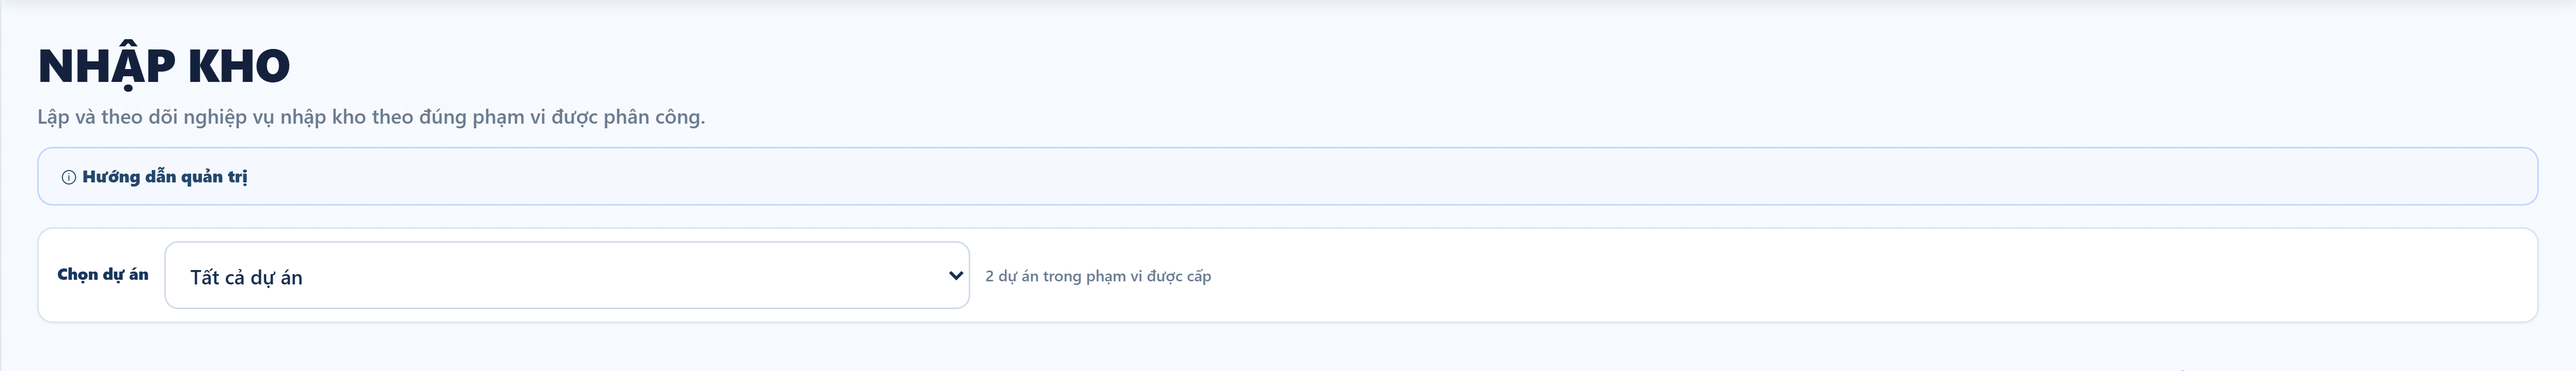
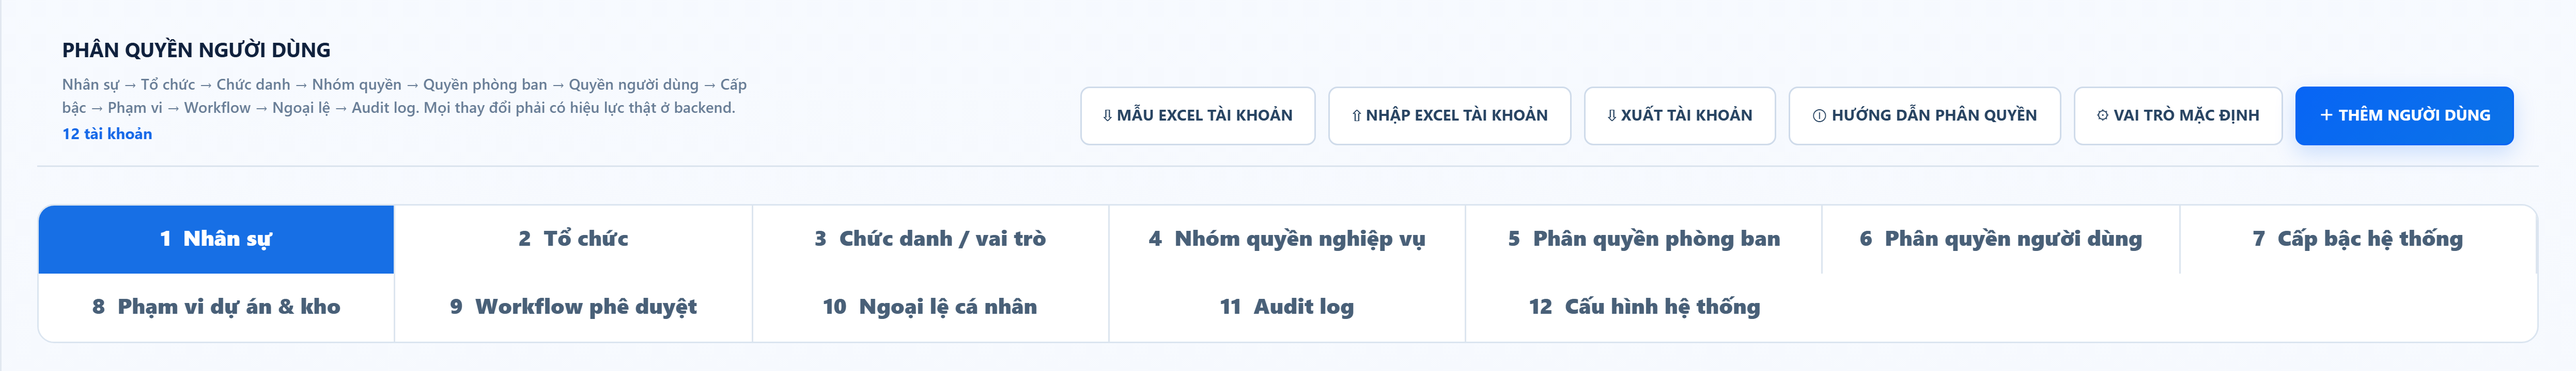
13 - U-09 dot 2: chuan hoa toolbar man PHAN QUYEN NGUOI DUNG + nang nguong cong anh len 8 px co bang chung
Man Admin: thay .approved-module-head + .screen-actions (6 nut don mot phia) bang MOT ListToolbar: tieu de + so luong (trai) || 6 nut (phai). Giu nguyen handler va thu tu nut; giu nguyen tieu de va chuoi 11 buoc nghiep vu.

Khong dua o tim kiem len toolbar cap man: adminQuery chi ap dung cho BUOC 1 (danh sach nhan su), dat o cap man se gay hieu sai rang no loc ca man; o tim kiem van nam trong AdminStaffList.

Kiem chung: tsc DAT; build DAT (dinh danh VNTECH-FP-6A346E9989229D07, head 0105, manifest 798); cong anh DAT 28/28; 13/13 probe DAT. Du doan neu TRUOC khi chay cong la chi 07-admin duoc phep lech -> dung (24/28 anh 0 px). OCR xac nhan toolbar dung khuon §5 (tieu de + 12 tai khoan ben trai, 6 nut ben phai) va 12 tab buoc nguyen ven. Chi cap nhat anh chuan 07-admin (4 anh).

Nang nguong cong anh tu 2 px len 8 px KEM BANG CHUNG: mot lan chay bao 2/28 anh vuot nguong roi lan ngay sau lai DAT => nguong 2 px qua sat, sinh loi GIA. Do lai: nhieu noi bo phien = 0 px (4 man x 4 kich thuoc); dao dong giua cac phien tren 07-admin = 0 / 2 / 0 px; vi tri la vien bo goc <BUTTON .sidebar-collapse-toggle> rect 22,798,203,34. Nguong 8 px van cach hoi quy THAT nho nhat tung gap (405 px) gan 50 lan. Van giu --max-diff-pixels=0 cho che do nghiem ngat tuyet doi.

Ho so: docs/27 them muc 7, 8, 9. Roadmap: U-09 -> DANG-LAM 4/32. Chua push theo yeu cau.

diff --git a/app/page.tsx b/app/page.tsx
@@ -3479,7 +3479,19 @@ function Admin({ data, open, action }: { data: AppData; open: (name: string, row
   // Nhân sự và Tổ chức là hai tab RIÊNG (trước đây gộp chung "Nhân sự & tổ chức").
   const steps=["Nhân sự","Tổ chức","Chức danh / vai trò","Nhóm quyền nghiệp vụ","Phân quyền phòng ban","Phân quyền người dùng","Cấp bậc hệ thống","Phạm vi dự án & kho","Workflow phê duyệt","Ngoại lệ cá nhân","Audit log","Cấu hình hệ thống"];
   return <div className="stack admin-approved-screen baseline-screen">
-    <div className="approved-module-head"><div><h2>PHÂN QUYỀN NGƯỜI DÙNG</h2><p>Nhân sự → Tổ chức → Chức danh → Nhóm quyền → Quyền phòng ban → Quyền người dùng → Cấp bậc → Phạm vi → Workflow → Ngoại lệ → Audit log. Mọi thay đổi phải có hiệu lực thật ở backend.</p></div><div className="screen-actions"><button className="secondary" onClick={downloadUserBulkTemplate.bind(null,data)}>⇩ MẪU EXCEL TÀI KHOẢN</button><label className="secondary file-inline">⇧ NHẬP EXCEL TÀI KHOẢN<input type="file" accept=".xlsx,.csv" onChange={(e)=>{void importUsersFile(e.target.files?.[0]);e.target.value="";}}/></label><button className="secondary" onClick={()=>exportUsersBulkXlsx(data)}>⇩ XUẤT TÀI KHOẢN</button><button className="secondary" onClick={()=>setShowHelp(true)}>ⓘ Hướng dẫn phân quyền</button><button className="secondary" onClick={()=>open("roleMaster")}>⚙ Vai trò mặc định</button><button className="primary" onClick={()=>open("user")}>＋ Thêm người dùng</button></div></div>
+    <ListToolbar
+      title="PHÂN QUYỀN NGƯỜI DÙNG"
+      note="Nhân sự → Tổ chức → Chức danh → Nhóm quyền → Quyền phòng ban → Quyền người dùng → Cấp bậc → Phạm vi → Workflow → Ngoại lệ → Audit log. Mọi thay đổi phải có hiệu lực thật ở backend."
+      count={filteredAdminUsers.length} total={activeUsers.length} unit="tài khoản"
+      actions={<>
+        <button className="secondary" onClick={downloadUserBulkTemplate.bind(null,data)}>⇩ MẪU EXCEL TÀI KHOẢN</button>
+        <label className="secondary file-inline">⇧ NHẬP EXCEL TÀI KHOẢN<input type="file" accept=".xlsx,.csv" onChange={(e)=>{void importUsersFile(e.target.files?.[0]);e.target.value="";}}/></label>
+        <button className="secondary" onClick={()=>exportUsersBulkXlsx(data)}>⇩ XUẤT TÀI KHOẢN</button>
+        <button className="secondary" onClick={()=>setShowHelp(true)}>ⓘ Hướng dẫn phân quyền</button>
+        <button className="secondary" onClick={()=>open("roleMaster")}>⚙ Vai trò mặc định</button>
+        <button className="primary" onClick={()=>open("user")}>＋ Thêm người dùng</button>
+      </>}
+    />
     <div className="permission-steps">{steps.map((label,index)=><button type="button" key={label} className={step===index+1?"active":""} onClick={()=>setStep(index+1)}>{index+1}&nbsp; {label}</button>)}</div>
     {showHelp&&<div className="overlay" onMouseDown={e=>e.target===e.currentTarget&&setShowHelp(false)}><div className="modal permission-help-modal"><header><div><strong>Hướng dẫn phân quyền chuẩn</strong><p>Thiết lập theo đúng thứ tự để tránh quyền chồng chéo.</p></div><button onClick={()=>setShowHelp(false)}>×</button></header><div className="modal-body"><ol className="permission-help-list"><li><b>Nhân sự:</b> tạo tài khoản và chọn chức danh; bấm vào một dòng để xem hồ sơ chi tiết.</li><li><b>Tổ chức:</b> khai báo phòng ban, Ban chỉ huy và tổ đội theo dự án.</li><li><b>Chức danh:</b> mỗi chức danh chỉ tồn tại một bản canonical, không trùng tên.</li><li><b>Nhóm quyền:</b> gom quyền theo nghiệp vụ, không dùng quyền nền kỹ thuật ở UI chính.</li><li><b>Phạm vi:</b> giới hạn dự án và kho; backend chặn truy cập ngoài scope.</li><li><b>Workflow:</b> cấu hình bước duyệt, vai trò, AND/OR và SLA.</li><li><b>Ngoại lệ:</b> chỉ cấp cá nhân khi thật sự cần và phải có thời hạn/audit.</li></ol></div><footer className="modal-footer"><button className="primary" onClick={()=>setShowHelp(false)}>Đã hiểu</button></footer></div></div>}
     {step===1&&<div className="stack"><section className="card admin-overview-card">{bulkUserMessage&&<div className="inline-alert" style={{whiteSpace:"pre-line"}}>{bulkUserMessage}</div>}<div className="table-toolbar"><div><strong>DANH SÁCH NHÂN SỰ / NGƯỜI DÙNG</strong><span>{filteredAdminUsers.length}/{activeUsers.length} tài khoản · danh sách toàn màn hình</span></div><button className="icon-mini" onClick={()=>open("user")}>＋</button></div><AdminStaffList data={data} open={open} query={adminQuery} onQuery={setAdminQuery}/></section></div>}

diff --git a/docs/27_BAO_CAO_U09_CHUAN_HOA_TOOLBAR.md b/docs/27_BAO_CAO_U09_CHUAN_HOA_TOOLBAR.md
@@ -176,3 +176,62 @@ toolbar danh sách theo nghĩa §5): `DocumentsScreen` · `CashbankScreen` · `S
 **Khuyến nghị về quy trình cho các đợt sau:** mỗi đợt nên chọn màn **có trong bộ ảnh chuẩn** để
 cổng ảnh kiểm được; màn không có trong bộ ảnh chuẩn thì phải kiểm bằng `--locate` + OCR như đã làm ở
 mục 4.3, nếu không sẽ không có bằng chứng.
+
+---
+
+## 7. ĐỢT 2 — MÀN PHÂN QUYỀN NGƯỜI DÙNG (`Admin`)
+
+**Lỗi §5 nặng nhất trong kiểm kê:** SÁU nút dồn hết vào một phía, không có vùng số lượng cân đối:
+⇩ MẪU EXCEL TÀI KHOẢN · ⇧ NHẬP EXCEL TÀI KHOẢN · ⇩ XUẤT TÀI KHOẢN · ⓘ Hướng dẫn phân quyền ·
+⚙ Vai trò mặc định · ＋ Thêm người dùng
+
+**Đã sửa:** thay `.approved-module-head` + `.screen-actions` bằng MỘT `<ListToolbar>`:
+
+- giữ nguyên tiêu đề "PHÂN QUYỀN NGƯỜI DÙNG" và nguyên văn chuỗi 11 bước nghiệp vụ;
+- bổ sung vùng số lượng: `filteredAdminUsers.length / activeUsers.length` (tài khoản);
+- sáu nút giữ nguyên handler và thứ tự — chỉ đổi vùng chứa.
+
+**Không đưa ô tìm kiếm lên toolbar cấp màn:** `adminQuery` chỉ áp dụng cho BƯỚC 1 (danh sách nhân
+sự), không áp dụng cho 11 bước còn lại; đặt nó ở toolbar cấp màn sẽ gây hiểu sai rằng nó lọc cả
+màn. Ô tìm kiếm vẫn nằm trong `AdminStaffList` — chuyển nó lên toolbar của riêng bước 1 thuộc đợt sau.
+
+### Kiểm chứng đợt 2
+
+| Hạng mục | Kết quả |
+|---|---|
+| `npx tsc --noEmit` | **ĐẠT** |
+| Build | **ĐẠT** — định danh `VNTECH-FP-6A346E9989229D07` (head `0105`), manifest 798 tệp |
+| Cổng ảnh — kiểm dự đoán nêu trước | chỉ `07-admin` được phép lệch → **đúng**: 24/28 ảnh 0 px |
+| Cổng ảnh — sau khi cập nhật ảnh chuẩn `07-admin` | **ĐẠT ✅ 28/28** |
+| 13 probe hồi quy | **13 ĐẠT / 0 KHÔNG ĐẠT** |
+| OCR xác nhận toolbar | tiêu đề · mô tả 11 bước · "12 tài khoản" (trái) ‖ 6 nút đúng thứ tự (phải); 12 tab bước bên dưới nguyên vẹn |
+
+Chỉ cập nhật ảnh chuẩn cho riêng `07-admin` (4 ảnh).
+
+---
+
+## 8. CỔNG ẢNH CHẬP CHỜN — ĐÃ ĐO VÀ NÂNG NGƯỠNG CÓ BẰNG CHỨNG
+
+Một lần chạy cổng báo **2/28 ảnh vượt ngưỡng**, lần chạy ngay sau lại ĐẠT. Cổng lúc đạt lúc không
+thì không dùng để chặn được, nên đã đo thay vì đoán:
+
+1. **Nhiễu nền TRONG một phiên** (`--selftest` trên `01-dashboard` · `03-work` · `06-warehouse` ·
+   `07-admin`, cả 4 kích thước): **0 px** ⇒ trong phiên thì tất định tuyệt đối.
+2. **Dao động GIỮA các phiên** (chạy đối chiếu 3 lần liên tiếp trên `07-admin`): **0 px · 2 px · 0 px**.
+3. **Vị trí:** vùng 203×1 tại (22,824) → `--locate=120,824` cho
+   `<BUTTON class="sidebar-collapse-toggle">` rect 22,798,203,34 ⇒ vài điểm ảnh ở **hai mép nút**,
+   viền bo góc vẽ lệch dưới một điểm ảnh tuỳ phiên.
+
+**Kết luận:** ngưỡng 2 px quá sát nên sinh lỗi GIẢ. Đã nâng lên **8 px** kèm bằng chứng ghi trong
+mã — vẫn cách hồi quy thật nhỏ nhất từng gặp (405 px) gần 50 lần. Vẫn giữ `--max-diff-pixels=0`
+cho chế độ nghiêm ngặt tuyệt đối.
+
+---
+
+## 9. TIẾN ĐỘ U-09
+
+| Đợt | Màn đã chuyển | Còn lại |
+|---|---|---|
+| 1 | `Requests` · `WarehouseReceipt` · `Inventory` | |
+| 2 | `Admin` | |
+| **Tổng** | **4/32** | **28 màn** |

diff --git a/docs/25_TODO_ROADMAP.md b/docs/25_TODO_ROADMAP.md
@@ -83,7 +83,7 @@
 | `U-06` | UI | `ApprovalTimeline`: số bước · người duyệt · phòng ban · thời gian · trạng thái · ý kiến | P1 | — | - | - | NEW | - | DONE |
 | `U-07` | UI | `ActivityTimeline` dùng cho mọi lịch sử | P1 | — | - | - | NEW | - | DONE |
 | `U-08` | UI | Kiểm responsive 4 kích thước cho mọi màn sau khi chuẩn hoá | P1 | U-02,U-03 | - | - | FIX | - | DONE |
-| `U-09` | UI | Chuyển các danh sách sang khuôn Toolbar chuẩn (§5) | P1 | U-03 | - | - | FIX | - | DANG-LAM 3/32 |
+| `U-09` | UI | Chuyển các danh sách sang khuôn Toolbar chuẩn (§5) | P1 | U-03 | - | - | FIX | - | DANG-LAM 4/32 |
 | `U-10` | UI | Sửa modal vượt viewport | P1 | — | - | - | FIX | - | TODO |
 | `U-11` | Kiến trúc | Tách `page.tsx` (4.057 dòng) thành module theo màn hình | P1 | U-01…U-05 | - | - | - | - | TODO |
 | `U-12` | CSS | Loại `!important` theo từng nhóm; gộp 1.183 selector trùng | P2 | U-11 | - | - | FIX | - | TODO |
